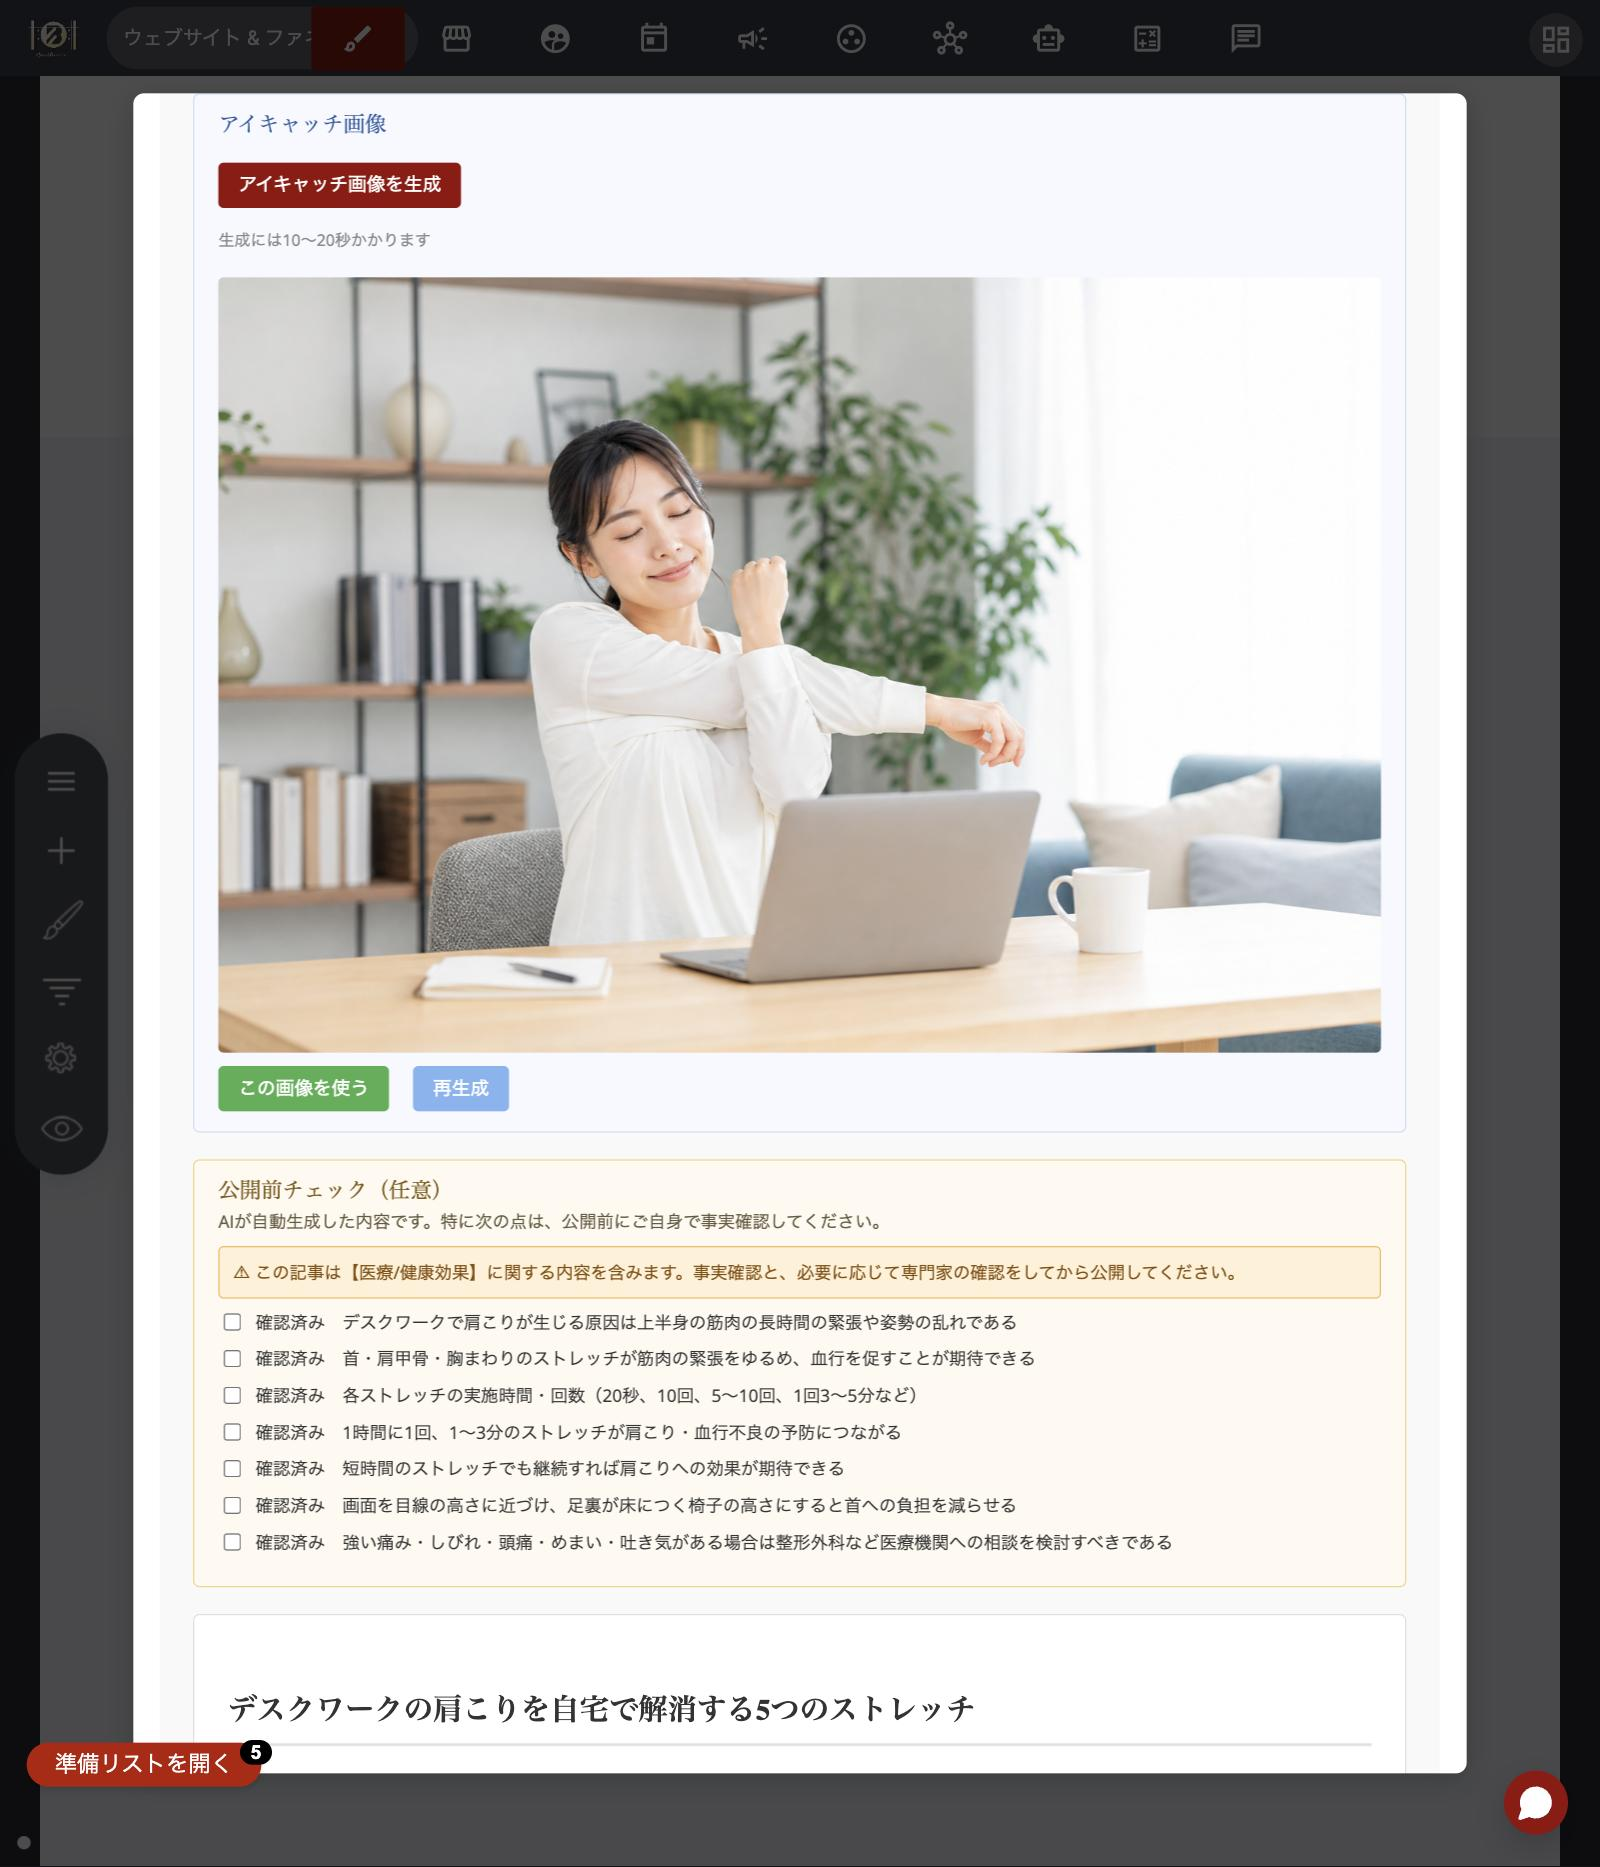
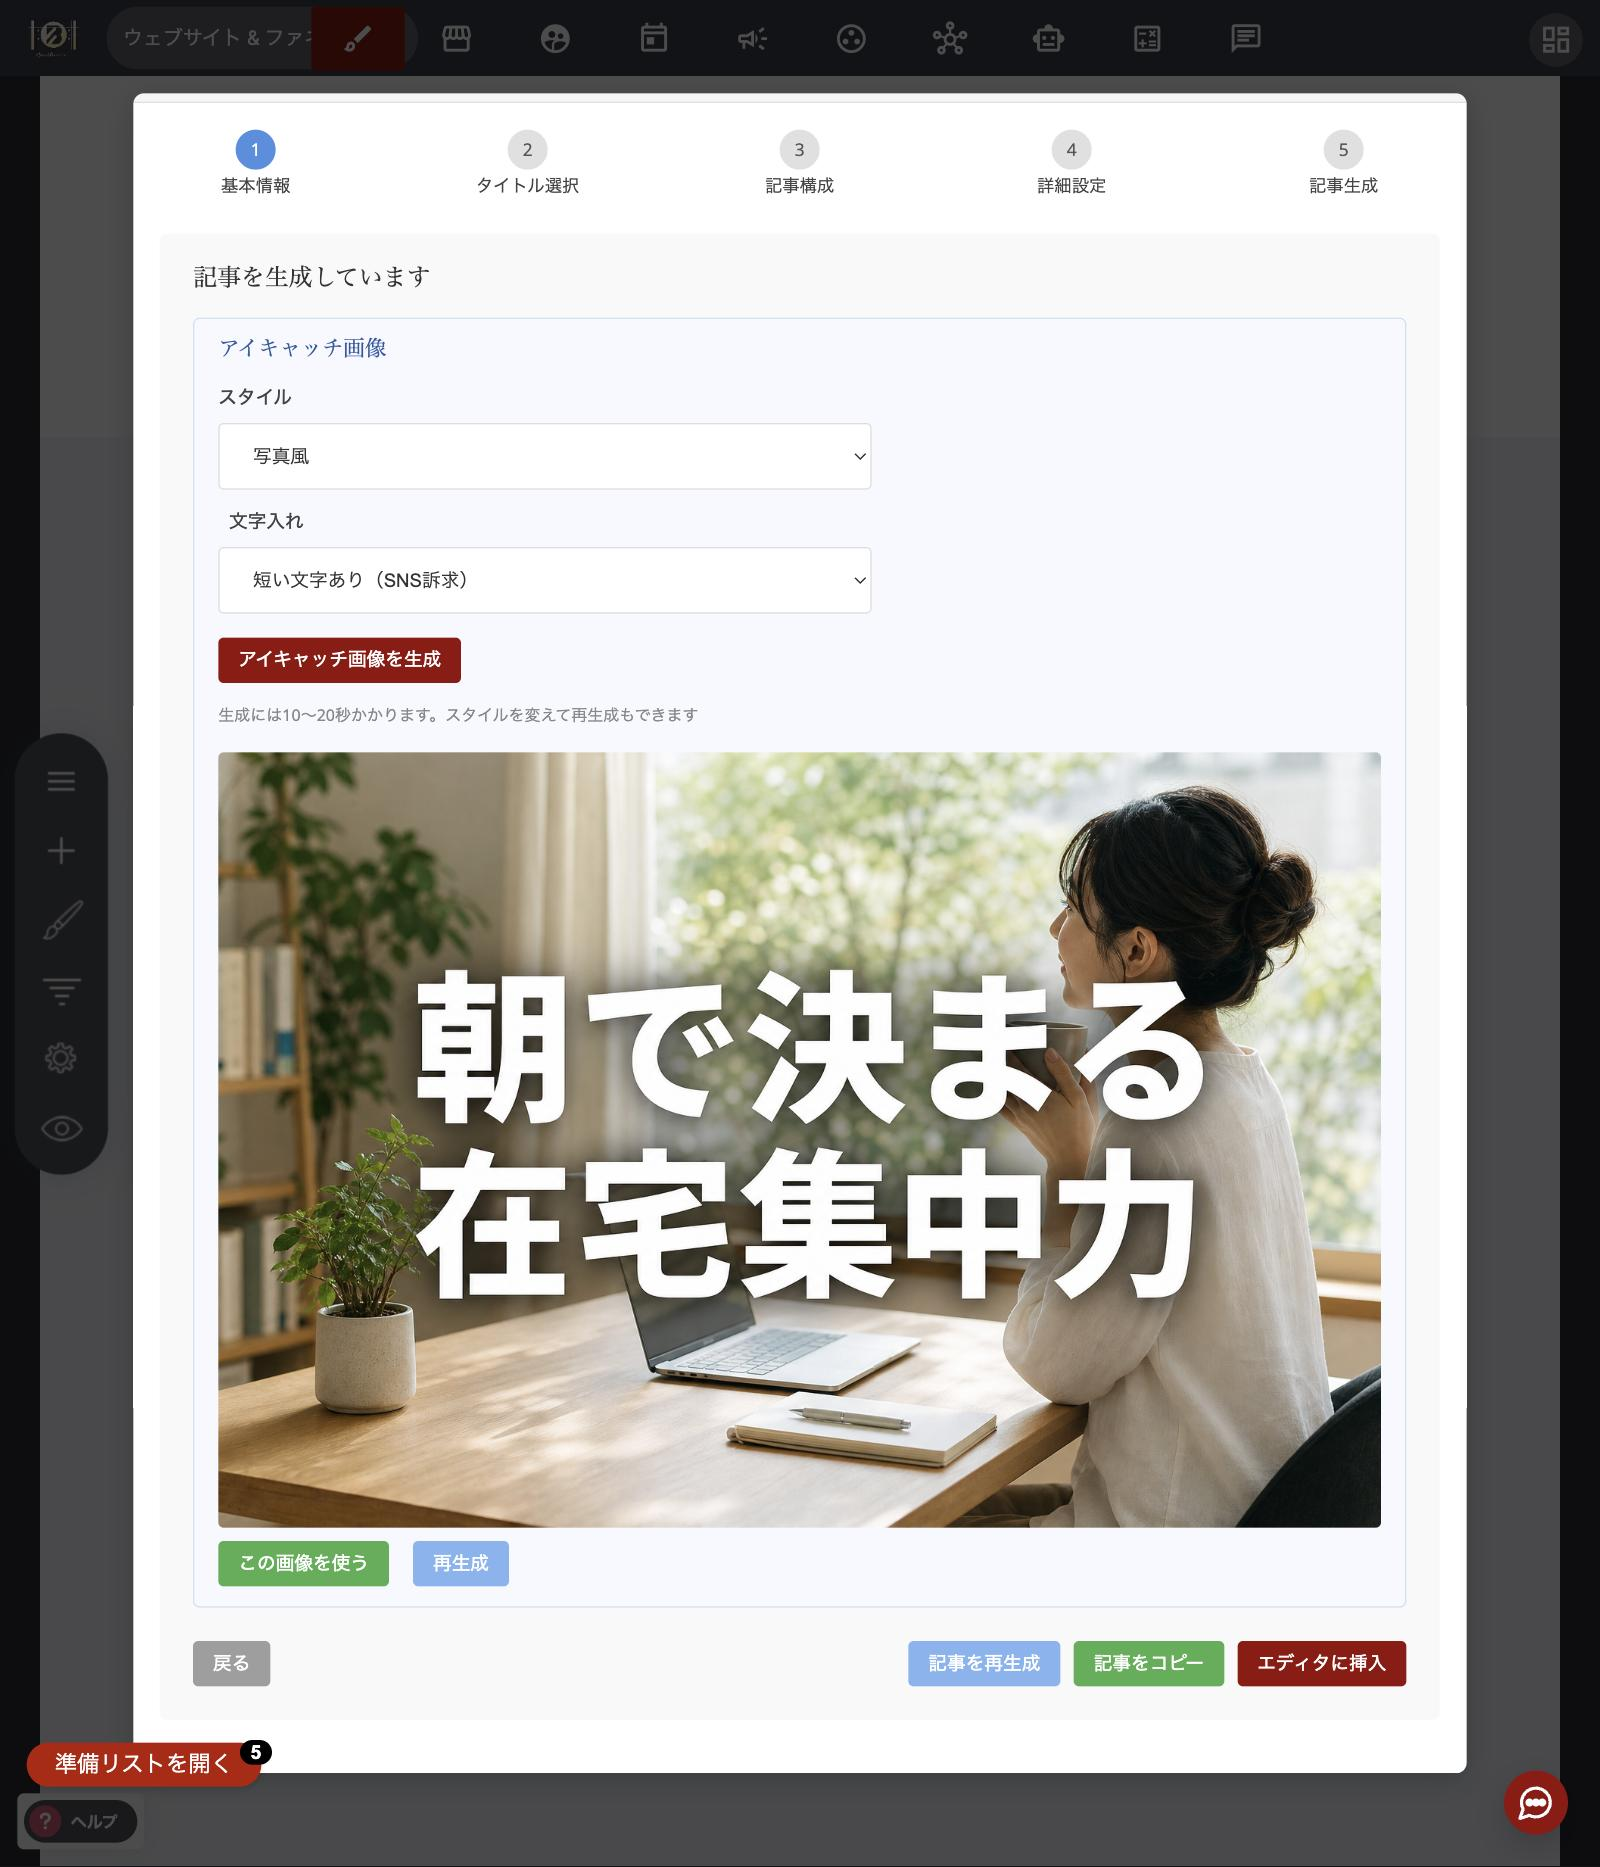
記事A: アイキャッチ生成セクションにスタイル5種と文字入れ4択を追記
- スタイル(写真風/イラスト/ミニマル/水彩画風/3D)と何度でも再生成できる旨
- 文字入れ4択(なし=SEO推奨/短い文字あり=SNS訴求/カテゴリ名のみ/おまかせ)を表で解説
- 迷ったら「なし」でOK、文字入りは公開前に文字を一目確認、の初心者向け注記
- スクショを文字入れ選択欄+文字入り生成例の画面に差し替え

diff --git a/blog/premium-article-generator.md b/blog/premium-article-generator.md
@@ -144,11 +144,22 @@ AIプロフィール設定を済ませていれば、文体の希望や避けた
 
 記事の内容に合ったアイキャッチ画像（記事一覧やSNSシェアで表示される画像）を、AIでその場で作れます。
 
-画像のスタイル（写真風など）はステップ4で選んでおけます。生成された画像が気に入ったら「**この画像を使う**」ボタンをクリックするだけで、そのままブログ記事のアイキャッチに設定されます。イメージと違ったら「**再生成**」で作り直せます。
+まず「**スタイル**」を選びます。写真風・イラスト・ミニマル・水彩画風・3Dの5種類から、記事の雰囲気に合うものを選んでください。イメージと違ったら、スタイルや設定を変えて、その場で何度でも再生成できます。
 
-ファイルマネージャーを開いて画像を探したり、別のツールで画像を作ってアップロードしたりする必要はありません。記事作成の流れの中で、画像まで完結します。
+次に「**文字入れ**」で、画像に日本語の文字を入れるかを選びます。選択肢は4つです。
 
-<figure><img src="../.gitbook/assets/premium-article-eyecatch.jpg" alt=""><figcaption>アイキャッチ画像の生成画面。「この画像を使う」でそのまま設定されます</figcaption></figure>
+| 選択肢 | どんなときに使うか |
+| --- | --- |
+| **なし（SEO向け・標準）** | 文字のないきれいな画像。検索やGoogle Discoverからの流入を狙う記事はこちらが推奨です |
+| **短い文字あり（SNS訴求）** | AIが記事タイトルを短いキャッチコピー（例:「朝で決まる／在宅集中力」のような2行）に圧縮して、画像に大きく入れます。SNSや記事一覧で目を引きたいときに |
+| **カテゴリ名のみ** | カテゴリ名を小さなバッジとして入れます。ブランド感を保ちつつ、分類だけ伝えたいときに |
+| **おまかせ（AIが判断）** | 記事のタイプから自動で判断します（How-to・比較・「〇〇選」→文字あり、コラム・事例→文字なし） |
+
+迷ったら「なし」のままで大丈夫です。文字入りを使った場合は、生成された文字が正しく出ているか、公開前に一目だけ確認しておきましょう。
+
+<figure><img src="../.gitbook/assets/premium-article-eyecatch.jpg" alt=""><figcaption>スタイルと文字入れを選んで生成。「短い文字あり」ではキャッチコピーが画像に入ります</figcaption></figure>
+
+生成された画像が気に入ったら「**この画像を使う**」ボタンをクリックするだけで、そのままブログ記事のアイキャッチに設定されます。ファイルマネージャーを開いて画像を探したり、別のツールで画像を作ってアップロードしたりする必要はありません。記事作成の流れの中で、画像まで完結します。
 
 ## 公開前チェック｜ファクトチェック（柱③・重要）
 